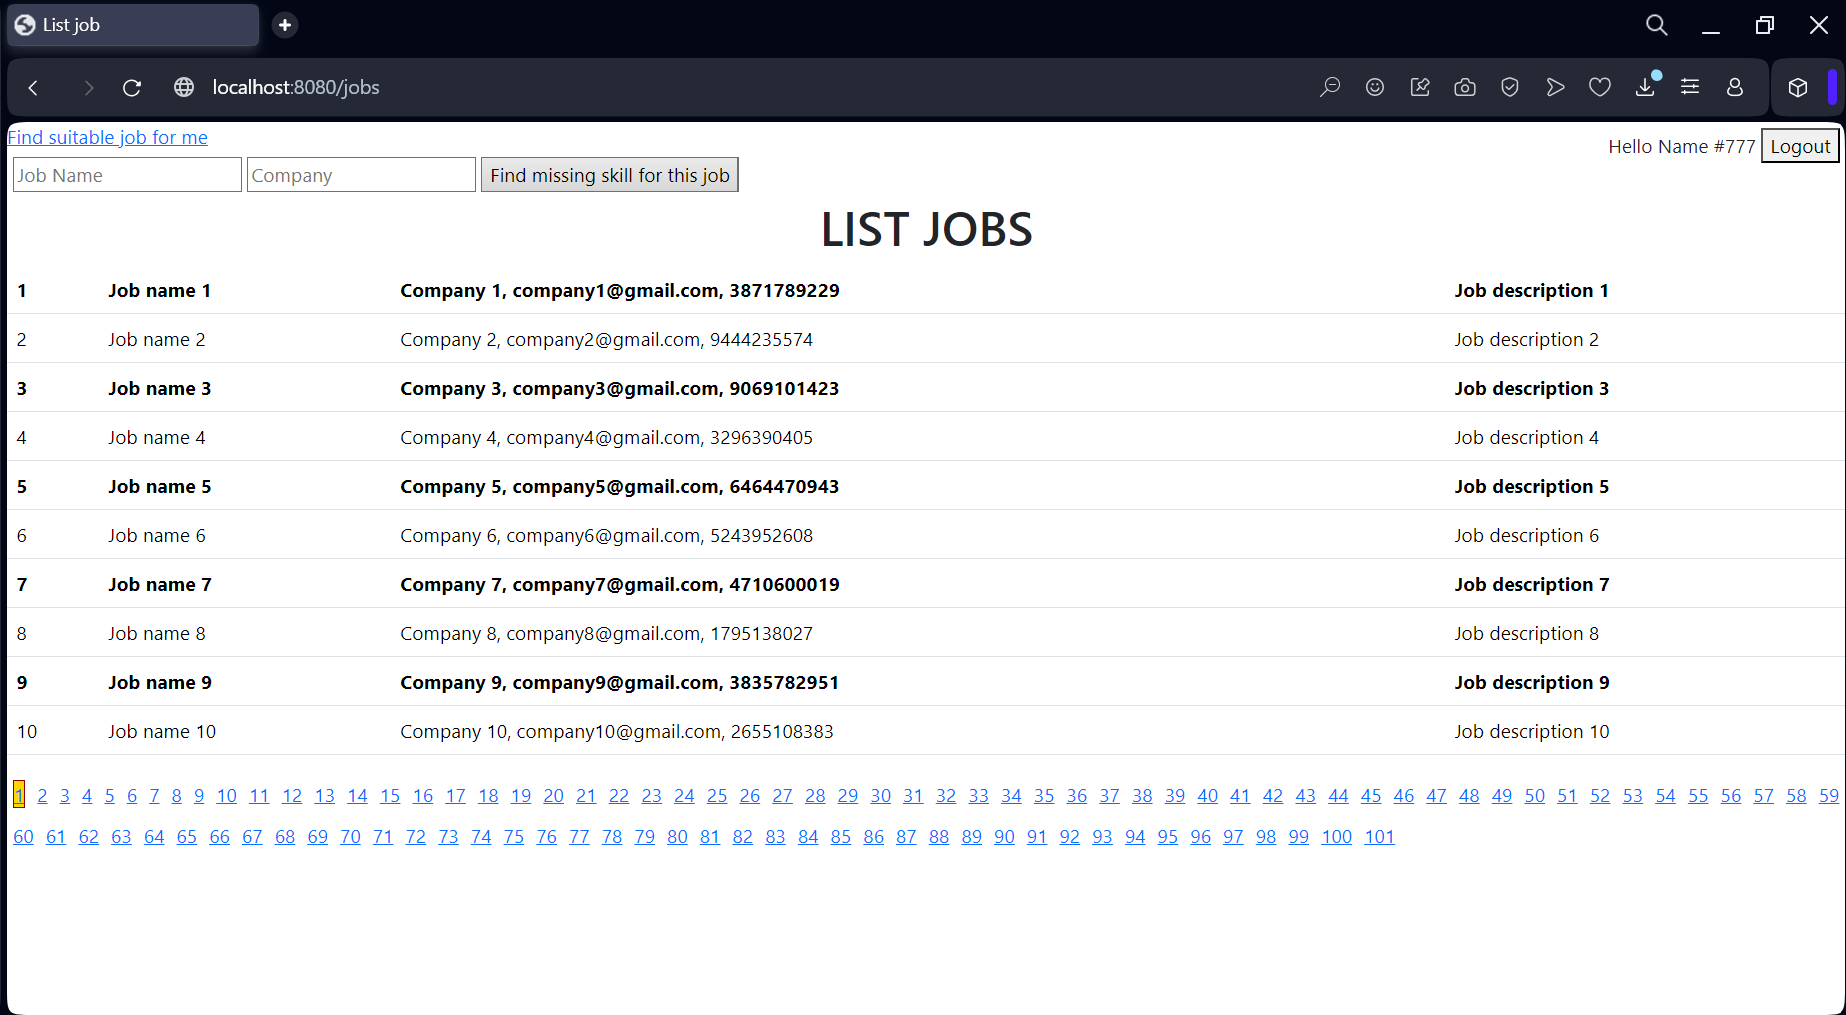
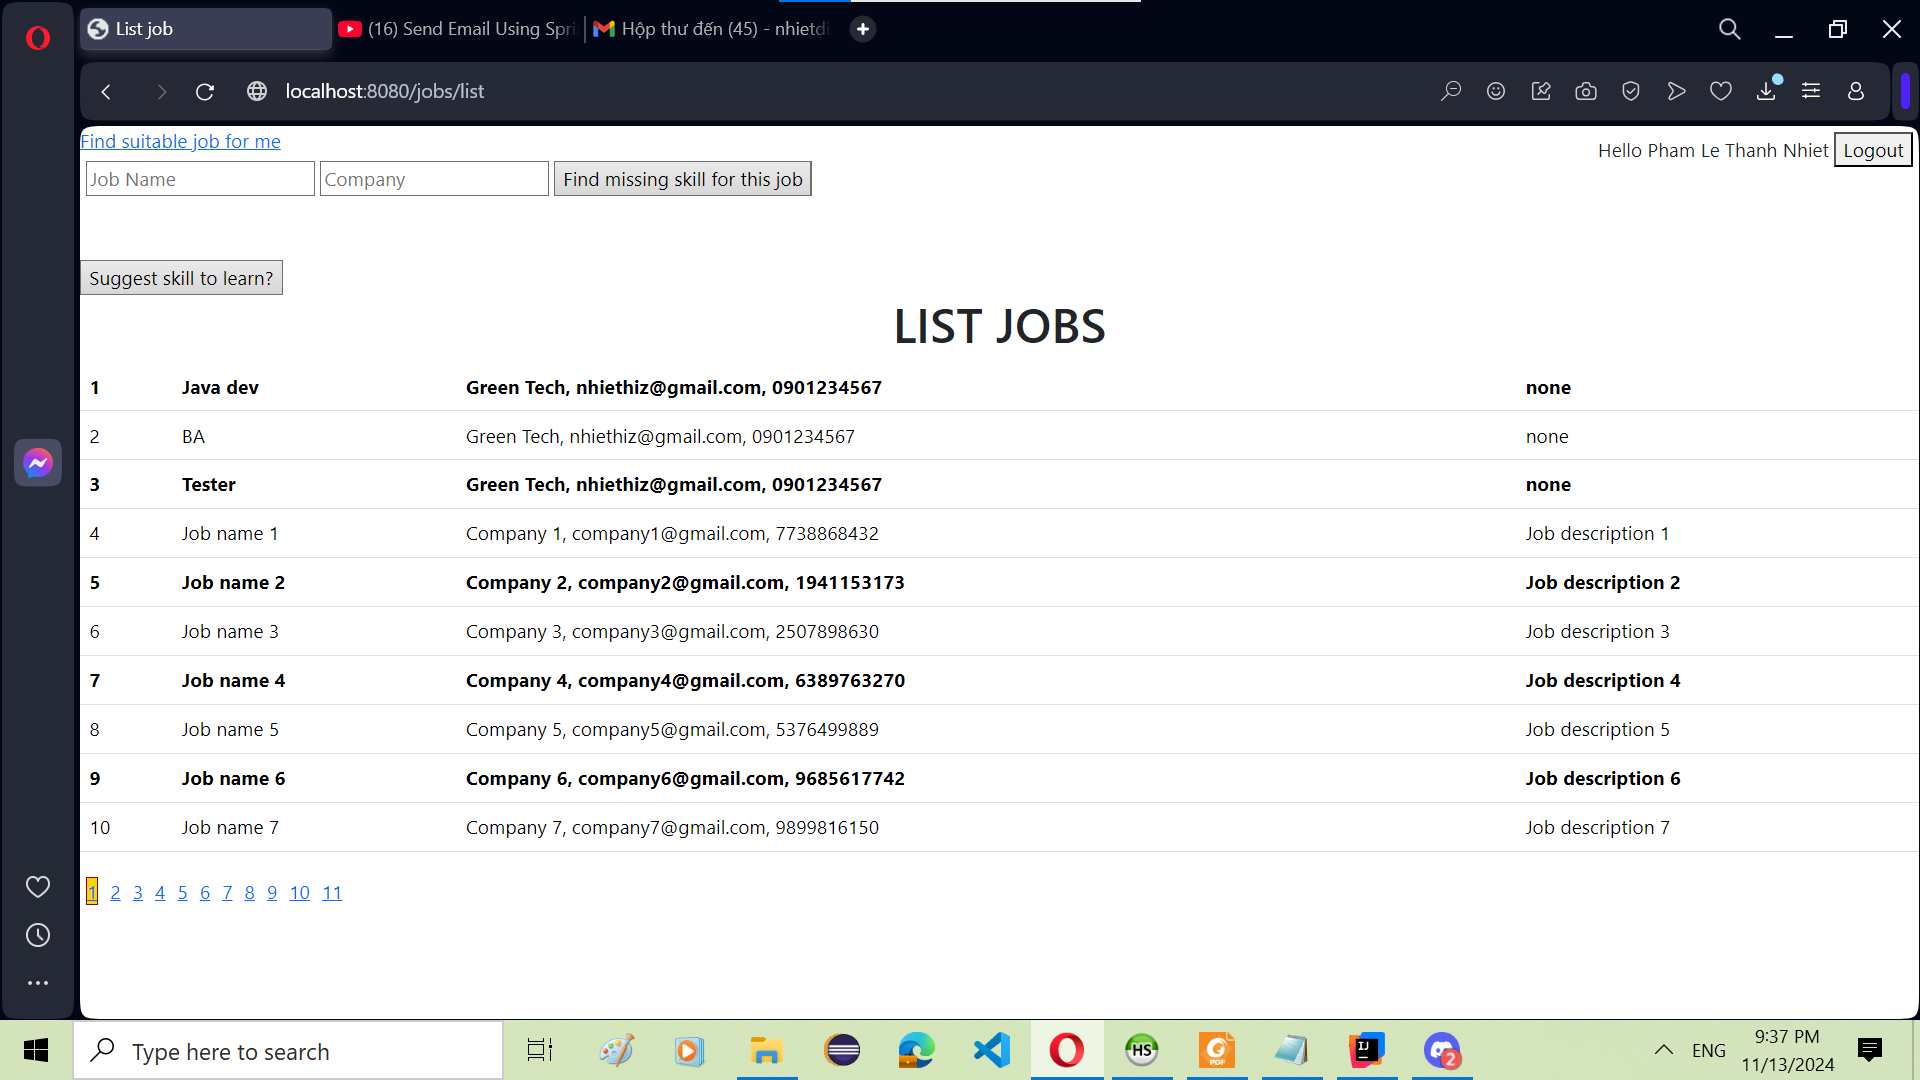
update joblist.html

diff --git a/src/main/resources/templates/jobs/jobs.html b/src/main/resources/templates/jobs/jobs.html
@@ -48,6 +48,13 @@
         <input type="text" name="companyName" placeholder="Company">
         <input type="submit" value="Find missing skill for this job">
     </form>
+</div><br><br>
+
+<div>
+    <form method="get" action="#">
+        <input type="hidden" name="candidateId" th:value="${candidate.id}">
+        <input type="submit" value="Suggest skill to learn?">
+    </form>
 </div>
 
 <h1 class="text-center">LIST JOBS</h1>
